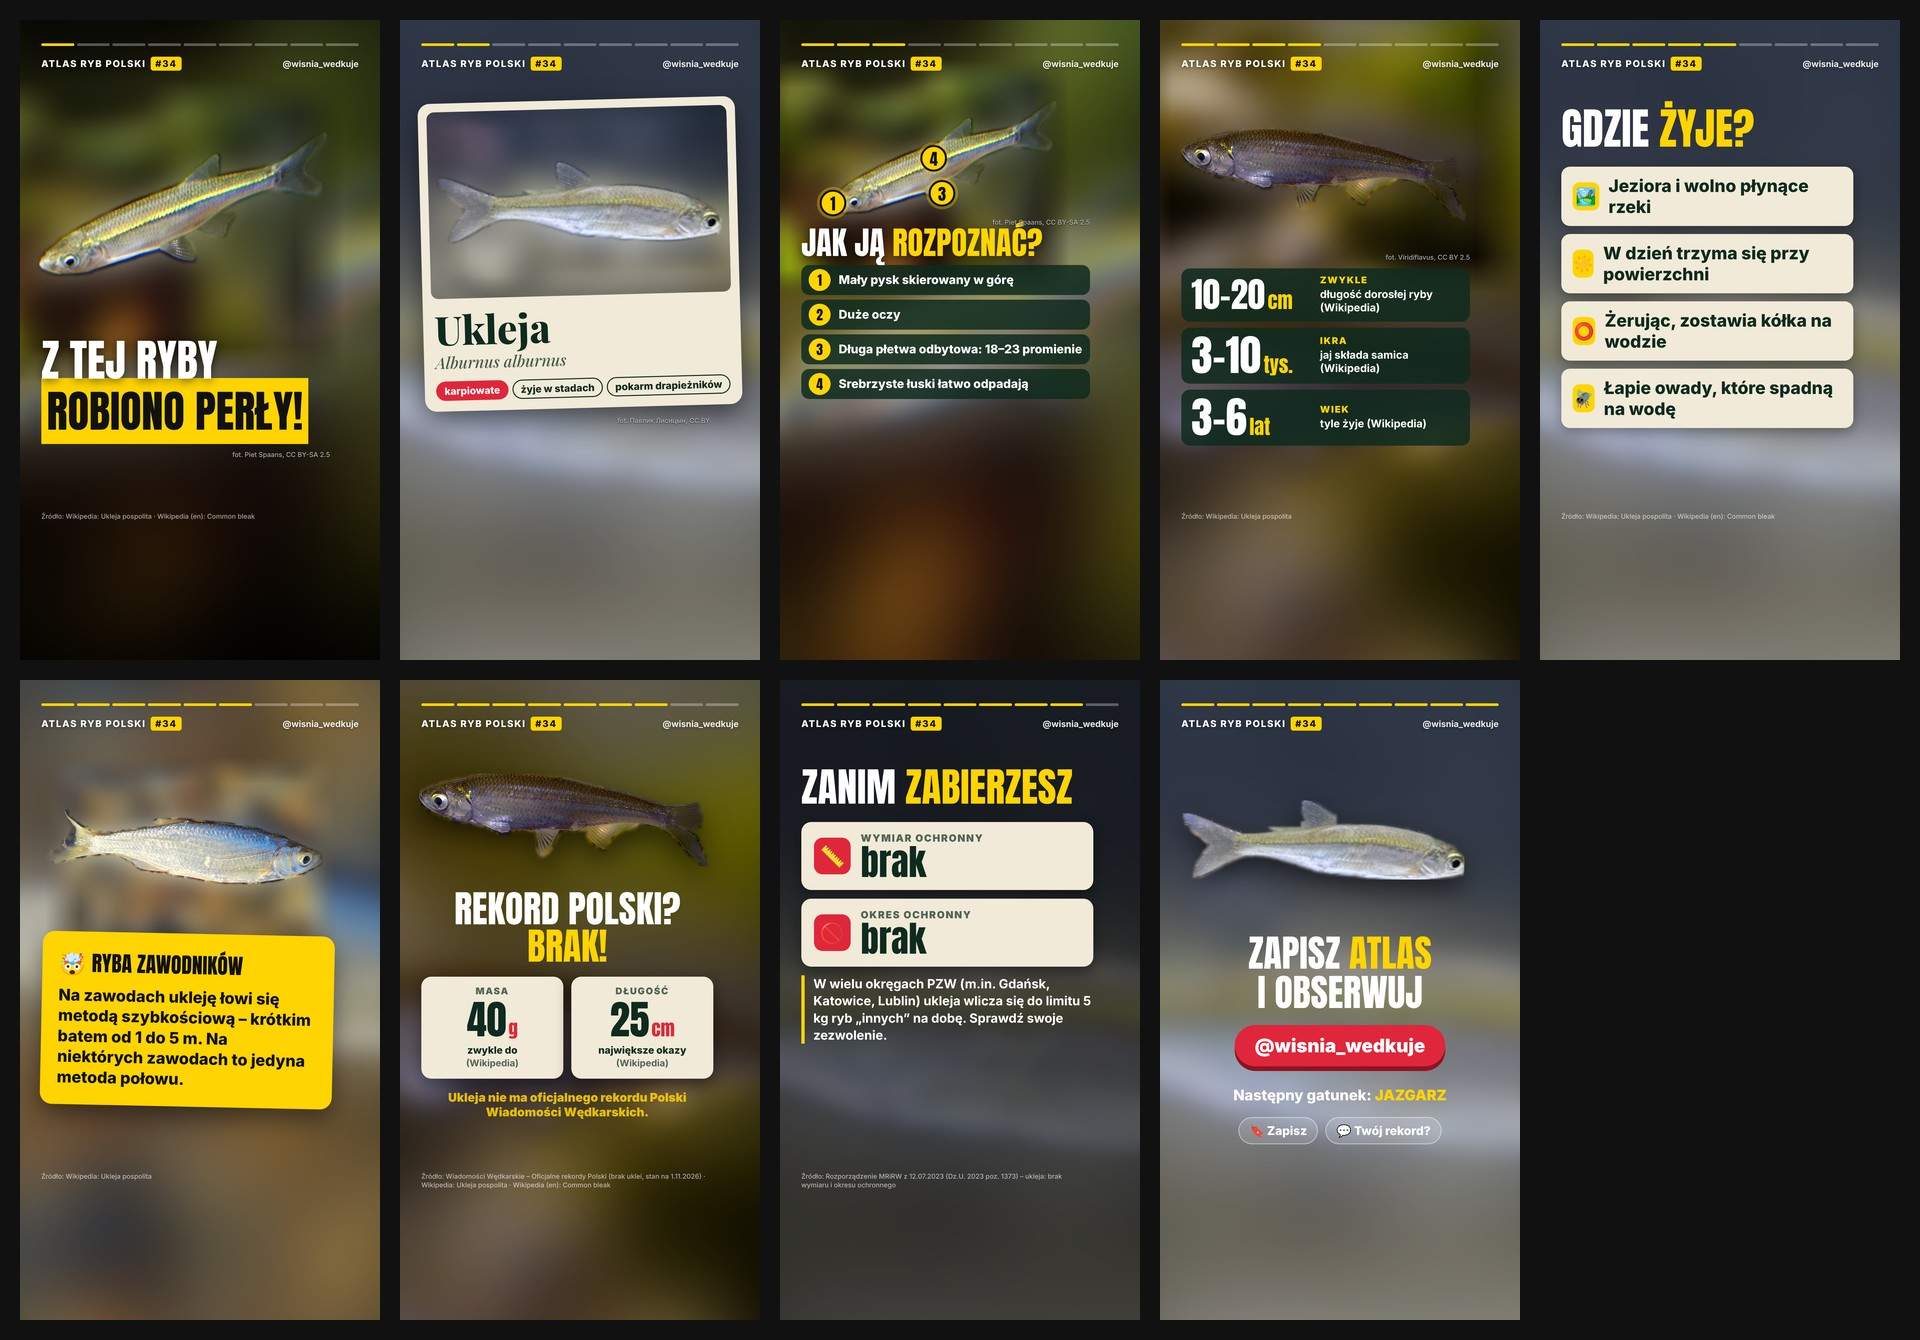
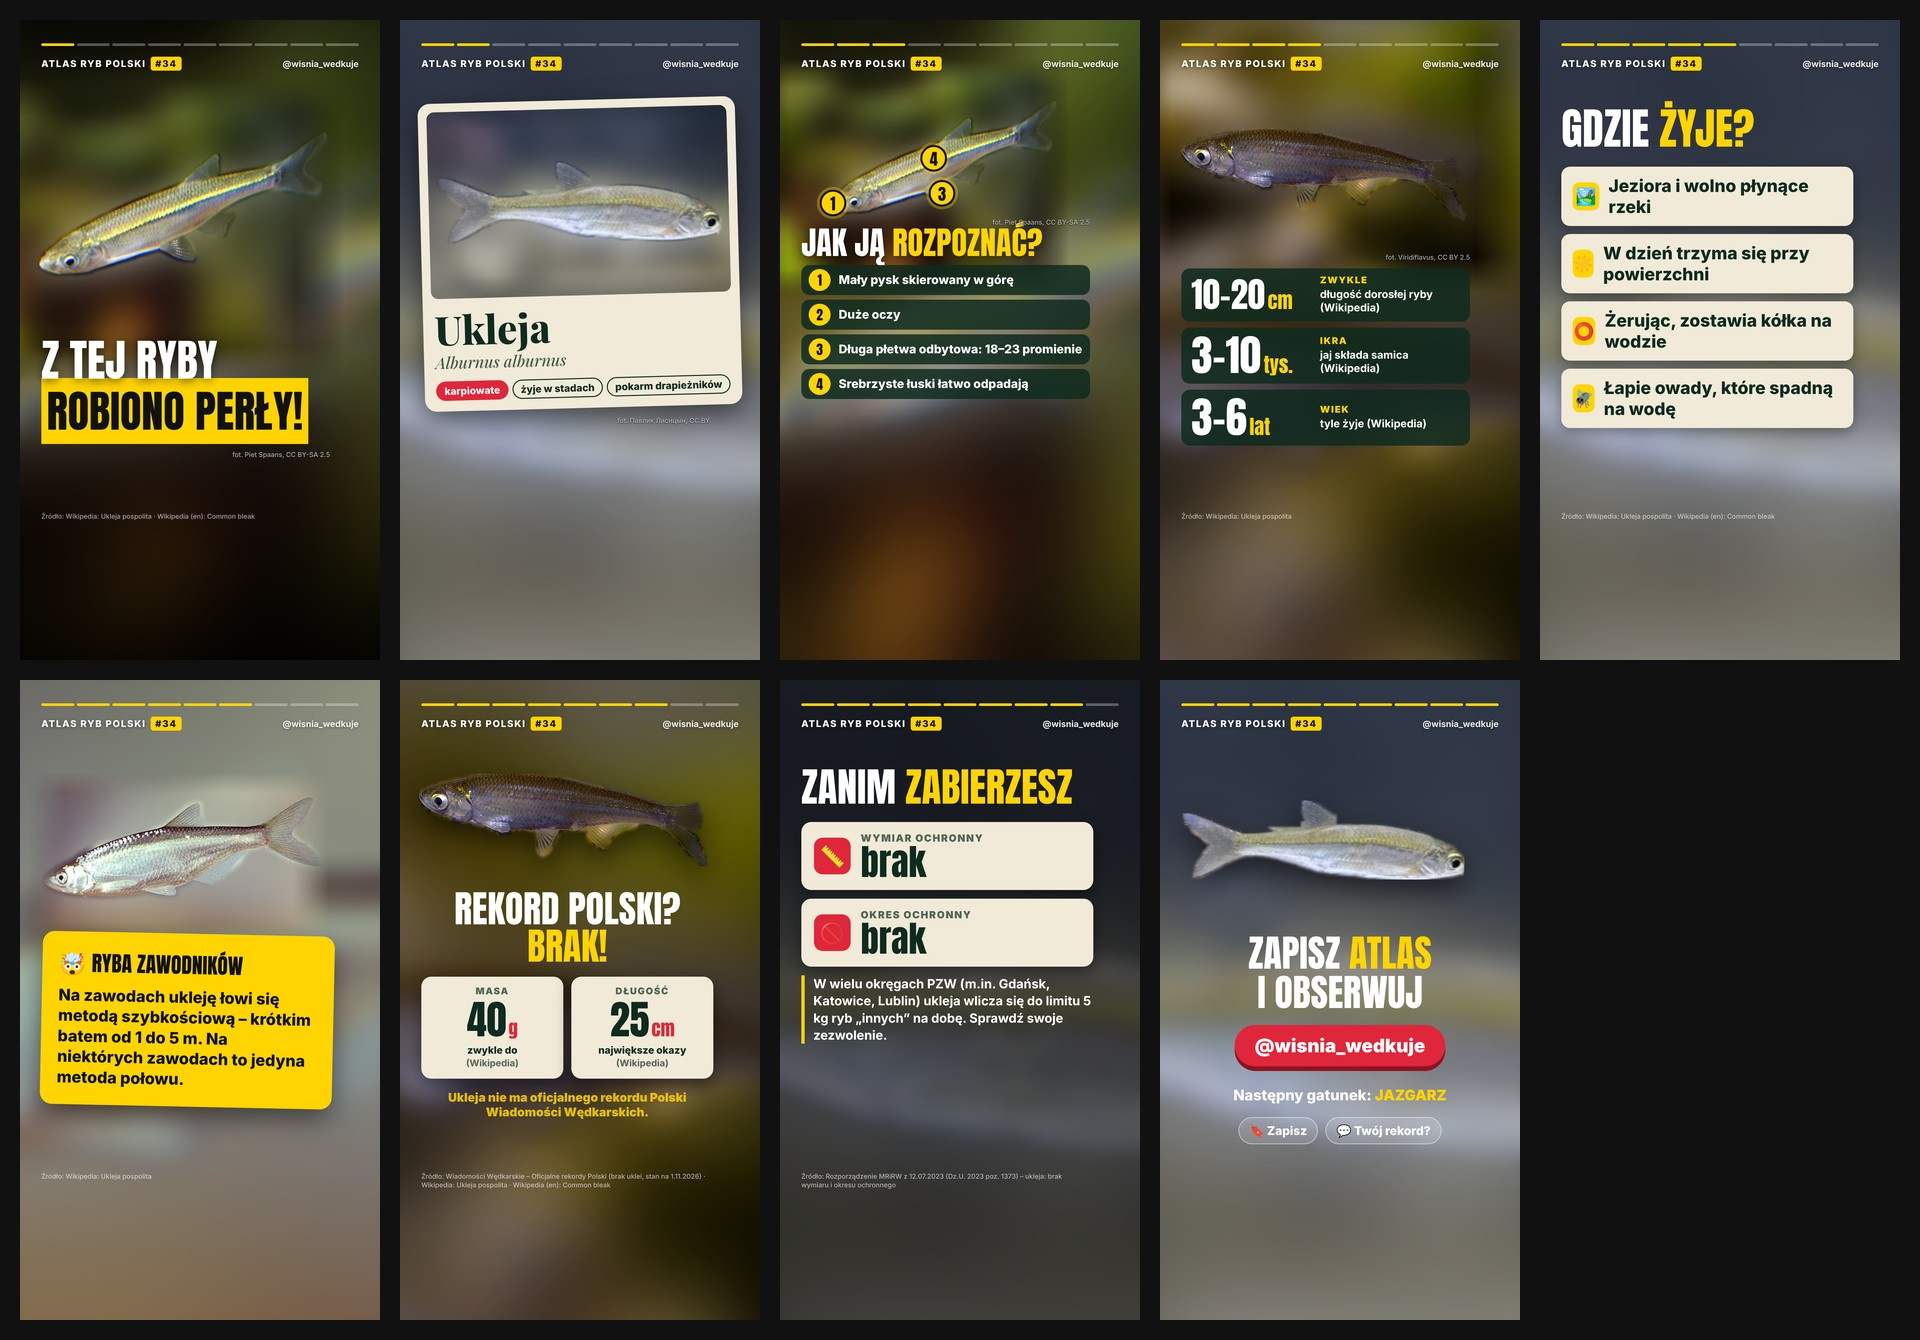
Atlas 34 Ukleja: żywa ryba na ciekawostce zamiast ryby na kamykach
Claude-Session: https://claude.ai/code/session_01YFDAx1LD8sTfHqEDUSbp2L

Changed region(s): [[0.0, 0.4896, 0.2188, 1.0]]

diff --git a/atlas/scenariusze/ukleja.md b/atlas/scenariusze/ukleja.md
@@ -17,5 +17,5 @@ Uwaga (lekcja z jesiotra): fakt dotyczy dokładnie tego gatunku, bez uogólnień
 
 ## Zdjęcia
 ukl_akwarium (Piet Spaans, CC BY-SA 2.5), ukl_para (Viridiflavus, CC BY 2.5) – Commons; ukl_stado (Павлик Лисицын, CC BY),
-ukl_kamyki (Ульяна Ярцева, CC BY, świeżo złowiona) – iNaturalist.
+ukl_wegry (Ákos Harka, CC BY 3.0, Commons) – na ciekawostce zamiast ukl_kamyki (użytkownik: „ukleja na ziemi słaba”).
 Odrzucone: ryba wyglądająca na martwą z ubytkami łusek, ryby w dłoniach, kadr z uciętą rybą, „Bleak1.jpg” (wysokie ciało – możliwy krąp).
